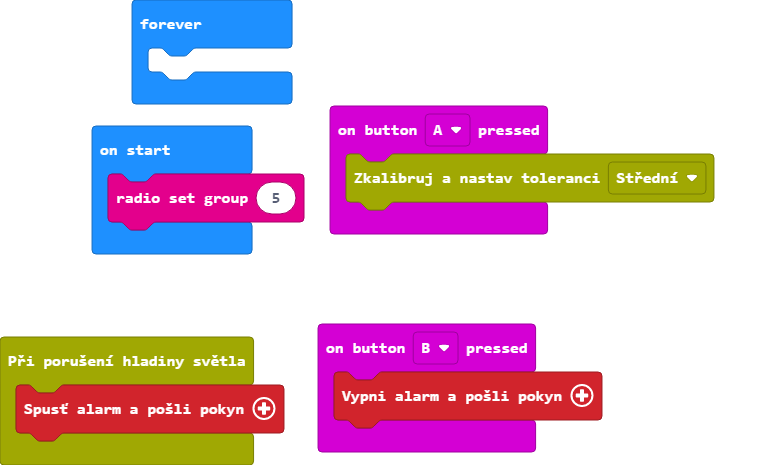
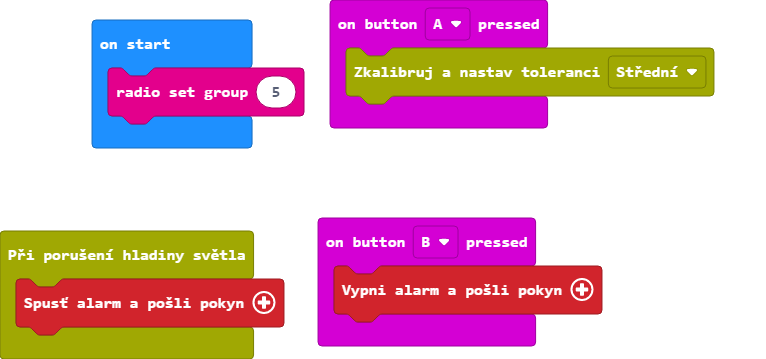
Update main.blocks, main.ts

diff --git a/main.ts b/main.ts
@@ -8,6 +8,3 @@ lightGate.onLightLevelDrop(function () {
     alarm.turnOnAlarmAndBroadcast()
 })
 radio.setGroup(5)
-basic.forever(function () {
-	
-})
